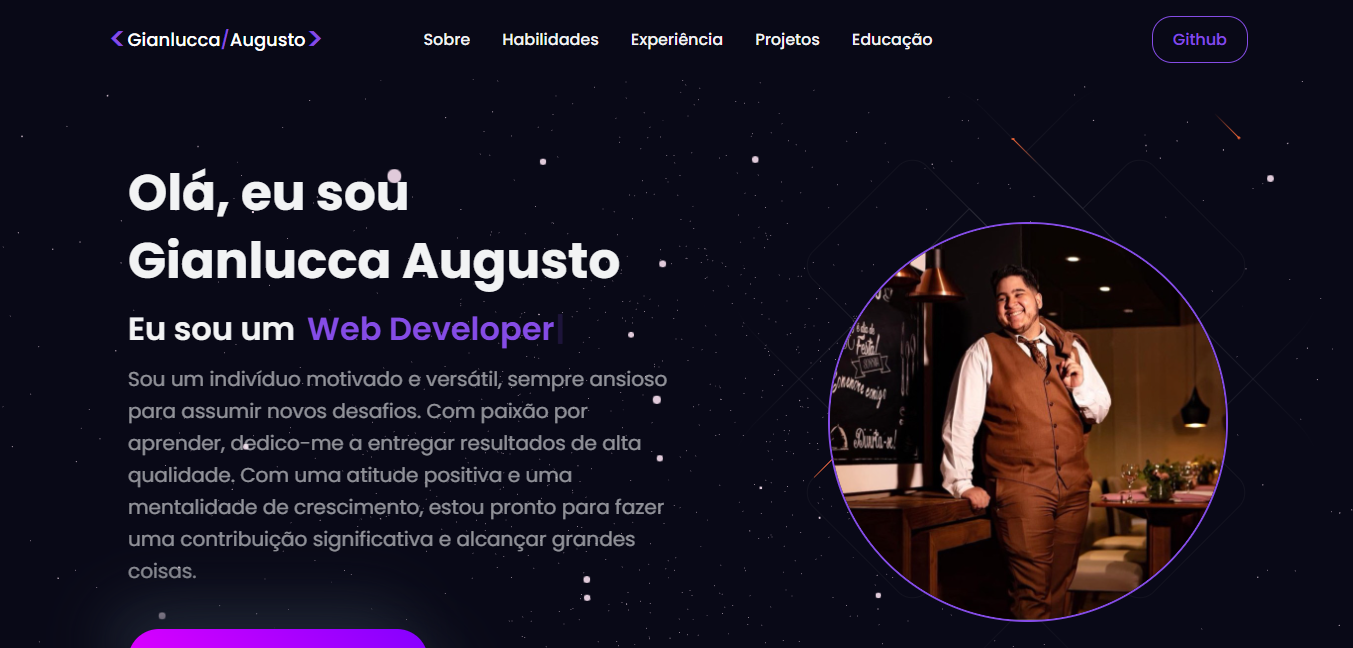
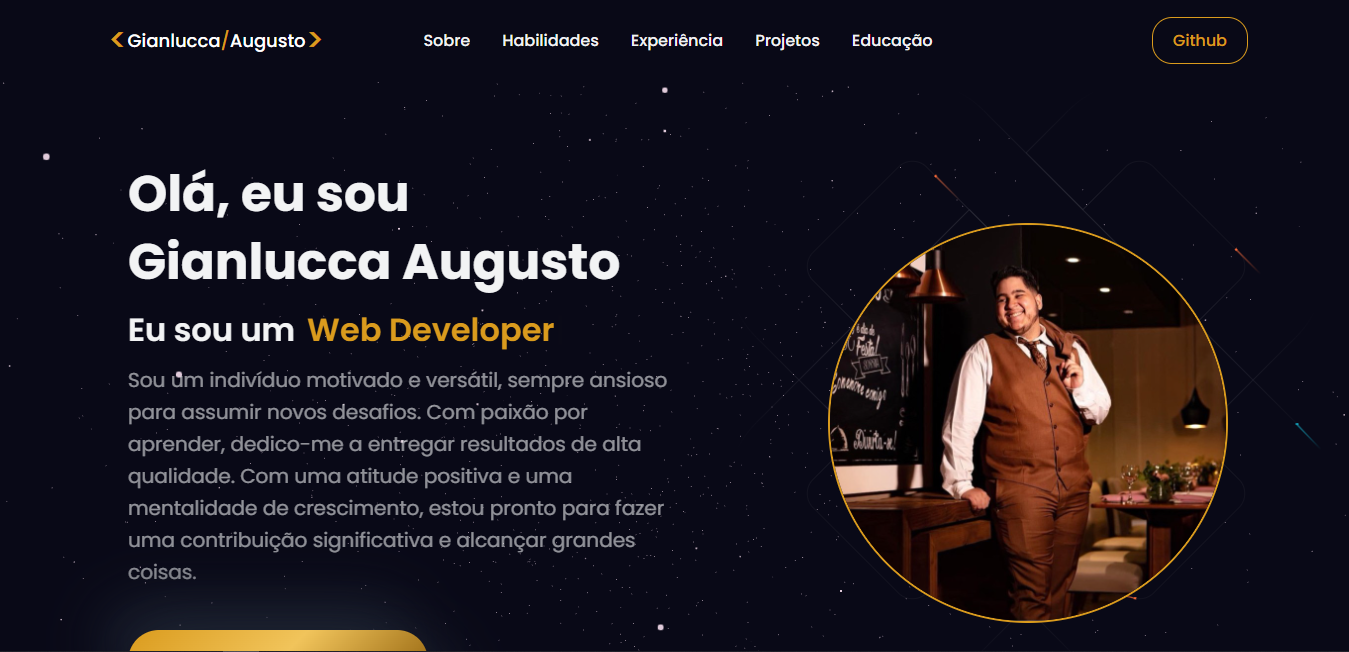
Att

diff --git a/src/data/constants.js b/src/data/constants.js
@@ -19,7 +19,7 @@ export const skills = [
     skills: [
       {
         name: "Drupal",
-        image: "https://upload.wikimedia.org/wikipedia/commons/7/75/Druplicon.vector.svg",
+        image: "https://raw.githubusercontent.com/Gian-lucca/Meu-site/d2f1e6e27b5a8b4f8eaf7e6928583868c9c285ce/src/images/drupal.svg",
       },
       {
         name: "HTML",
@@ -135,7 +135,7 @@ export const experiences = [
     role: "Técnico de celular Pleno",
     company: "iCaiu",
     date: "Novembro 2018 - Janeiro 2021",
-    desc: "Manutenção em iPhones e iPads, Atendimento ao cliente, Administrativo de toda loja, Responsável pelo treinamento de novos Técnicos, Responsável pela conferência e relatórios de estoque, Responsável pra solucionar todo e qualquer tipo de problemas que aparece-se em loja e Responsável por toda equipe",
+    desc: "Comecei como Tec.Junior e em Fevereiro de 2020 fui promovido para Tec.Pleno, aqui esta algumas das minhas atividades:Manutenção em iPhones e iPads, Atendimento ao cliente, Administrativo de toda loja, Responsável pelo treinamento de novos Técnicos, Responsável pela conferência e relatórios de estoque, Responsável pra solucionar todo e qualquer tipo de problemas que aparece-se em loja e Responsável por toda equipe",
   },
   {
     id: 4,

diff --git a/src/components/sections/Projects.jsx b/src/components/sections/Projects.jsx
@@ -118,7 +118,7 @@ const Projects = ({ openModal, setOpenModal }) => {
             active={toggle === "web app"}
             onClick={() => setToggle("web app")}
           >
-            WEB Site
+            Web Site
           </ToggleButton>
           <Divider />
           <ToggleButton
@@ -132,7 +132,7 @@ const Projects = ({ openModal, setOpenModal }) => {
             active={toggle === "machine learning"}
             onClick={() => setToggle("machine learning")}
           >
-            APRENDIZAGEM
+            Aprendizagem
           </ToggleButton>
         </ToggleButtonGroup>
         <CardContainer>

diff --git a/public/index.html b/public/index.html
@@ -1,5 +1,5 @@
 <!DOCTYPE html>
-<html lang="en">
+<html lang="pt">
   <head>
     <meta charset="utf-8" />
     <link rel="icon" href="%PUBLIC_URL%/HeroImage.jpg" />
@@ -27,7 +27,7 @@
     <title>Gianlucca Augusto</title>
   </head>
   <body>
-    <noscript>You need to enable JavaScript to run this app.</noscript>
+    <noscript>Você precisa habilitar o JavaScript para executar este aplicativo.</noscript>
     <div id="root"></div>
     <!--
       This HTML file is a template.

diff --git a/src/components/Navbar.jsx b/src/components/Navbar.jsx
@@ -140,7 +140,7 @@ const Navbar = () => {
       <NavbarContainer>
         <NavLogo to="/">
           <ColorText>&lt;</ColorText>Gianlucca
-          <div style={{ color: theme.primary }}>/</div>Augusto
+          <div id="barra">/</div>Augusto
           <ColorText>&gt;</ColorText>
         </NavLogo>
 

diff --git a/src/index.css b/src/index.css
@@ -86,3 +86,11 @@ body {
 .jVqrJO:hover {
   background: #da9b1d52 !important;
 }
+
+#barra {
+  color: #da9b1d !important;
+}
+
+.lkjEkl:hover {
+  background: #da9b1d52 !important;
+}

diff --git a/README.md b/README.md
@@ -1,63 +1,1 @@
-# My Portfolio
-Welcome to my portfolio! This project showcases my skills, projects, and experiences as a web developer.
-
-### Weblink: [Live Website](https://rishavchanda.netlify.app)
-## Some Images:
-<img width="450px;" src="https://github.com/rishavchanda/rishav-chanda-portfolio/assets/64485885/4774dc30-1c1c-4c6c-b23b-019f3481713e"/>
-<img width="450px;" src="https://github.com/rishavchanda/rishav-chanda-portfolio/assets/64485885/0a33349f-262d-4720-afed-7afc0dfd85a5"/>
-<img width="450px;" src="https://github.com/rishavchanda/rishav-chanda-portfolio/assets/64485885/92f2622f-0a7f-444a-8f60-6edeae7508dd"/>
-<img width="450px;" src="https://github.com/rishavchanda/rishav-chanda-portfolio/assets/64485885/0e984e85-cbd9-487b-bf91-166009b39319"/>
-<img width="450px;" src="https://github.com/rishavchanda/rishav-chanda-portfolio/assets/64485885/6ad7b63b-4c51-4c98-bd21-847e5d48d559"/>
-<img width="450px;" src="https://github.com/rishavchanda/rishav-chanda-portfolio/assets/64485885/10647898-7154-434c-84e6-edee6679ca92"/>
-
-
-## Table of Contents
-- [Introduction](#introduction)
-- [Features](#features)
-- [Technologies Used](#technologies-used)
-- [Installation](#installation)
-- [Usage](#usage)
-- [Contributing](#contributing)
-- [License](#license)
-
-## Introduction
-My Portfolio is a React.js application that serves as an online portfolio to showcase my work, skills, and achievements. It provides an overview of my background, displays my projects, and offers a way to contact me.
-
-## Features
-- About Me: An overview of my background, skills, and experiences.
-- Projects: A collection of my notable projects with descriptions, screenshots, and links.
-- Skills: A list of my technical skills and proficiencies.
-- Resume: A link to download my resume.
-- Contact: A form to send me messages or inquiries.
-
-## Technologies Used
-- React.js: A JavaScript library for building user interfaces.
-- HTML5 & CSS3: Markup and styling languages for building web pages.
-- JavaScript: A programming language for adding interactivity to web applications.
-- Style-Components: A CSS framework for creating responsive and mobile-first designs.
-- Git: A version control system for tracking changes and collaborating on projects.
-- GitHub Pages: A platform for hosting and deploying web applications.
-
-## Installation
-To run this portfolio locally, follow these steps:
-
-1. Clone the repository: `git clone https://github.com/rishavchanda/rishav-chanda-portfolio.git`
-2. Navigate to the project directory: `cd rishav-chanda-portfolio`
-3. Install the dependencies: `npm install`
-4. Start the development server: `npm start`
-5. Open your browser and visit: `http://localhost:3000`
-
-## Usage
-After installing and running the project locally, you can navigate through the different sections of the portfolio using the navigation menu. Explore the About Me section to learn more about my background and skills. Visit the Projects section to see detailed information about my projects, including descriptions and screenshots. Use the Contact section to send me a message or inquiry.
-
-## Contributing
-Contributions are welcome! If you'd like to contribute to My Portfolio, please follow these steps:
-
-1. Fork the repository.
-2. Create a new branch for your feature or bug fix: `git checkout -b my-feature`
-3. Commit your changes: `git commit -m 'Add some feature'`
-4. Push to the branch: `git push origin my-feature`
-5. Open a pull request.
-
-## License
-This project is licensed under the [MIT License](LICENSE).
+# Meu Portfolio
